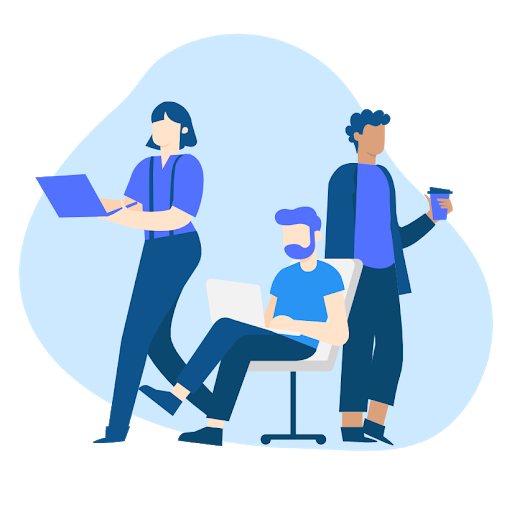
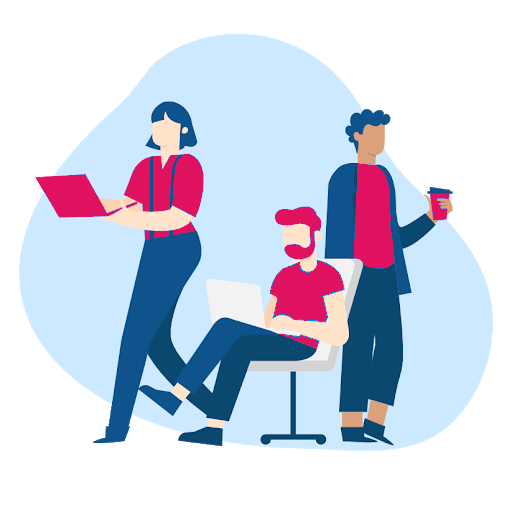
user authentication setup completed

diff --git a/components/Header.tsx b/components/Header.tsx
@@ -1,3 +1,4 @@
+'use client'
 import React from "react";
 import {
   Sheet,
@@ -11,8 +12,11 @@ import logo from "@/public/logo.png";
 import logobg from "@/public/logo-with-bg.png";
 import Link from "next/link";
 import Image from "next/image";
+import { useFetchUser } from "@/utlis/hooks/useAuth";
+import { cn } from "@/lib/utils";
 
 function Header() {
+  const { data: user, isLoading } = useFetchUser();
   return (
     <header className="py-5 sticky top-0 left-0 z-50 w-full bg-primary-color">
       <div className="container">
@@ -53,11 +57,23 @@ function Header() {
           </nav>
           <div className="call-to-action">
             <Link
-              href="/"
-              className="hidden md:block py-3 px-[40px] text-sm md:text-base xl:text-[18px] bg-slate-900 transition-all duration-300 rounded-full text-white"
+              href="/login"
+              className={cn("hidden md:block py-3 px-[40px] text-sm md:text-base xl:text-[18px] bg-slate-900 transition-all duration-300 rounded-full text-white",
+              user && "md:hidden")}
             >
               Login
             </Link>
+            <div
+              className={cn(
+                "flex justify-between p-4 bg-gray-100",
+                !user && "hidden"
+              )}
+            >
+              <h1 className="text-xl font-bold">
+                Welcome, {user?.name || "Guest"}!
+              </h1>
+              <button className="btn">Logout</button>
+            </div>
             {/* menu bar */}
             <div className="block md:hidden">
               <Sheet>
@@ -82,7 +98,13 @@ function Header() {
                     <SheetTitle>
                       <div className="bg-primary-color w-full mt-4">
                         <Link href={"/"}>
-                          <Image src={logobg} alt="logo" width={150} height={80}  className="mx-auto"/>
+                          <Image
+                            src={logobg}
+                            alt="logo"
+                            width={150}
+                            height={80}
+                            className="mx-auto"
+                          />
                         </Link>
                       </div>
                     </SheetTitle>
@@ -113,12 +135,28 @@ function Header() {
                         Contact
                       </a>
                     </li>
-                    <Link
-                      href="/"
-                      className="py-3 text-center px-[40px] text-sm md:text-base xl:text-[18px] bg-slate-900 transition-all duration-300 rounded-full text-white"
-                    >
-                      Login
-                    </Link>
+                    <div>
+                      <Link
+                        href="/login"
+                        className={cn(
+                          "py-3 text-center px-[40px] text-sm md:text-base xl:text-[18px] bg-slate-900 transition-all duration-300 rounded-full text-white",
+                          user && "hidden"
+                        )}
+                      >
+                        Login
+                      </Link>
+                      <div
+                        className={cn(
+                          "flex justify-between p-4 bg-gray-100",
+                          !user && "hidden"
+                        )}
+                      >
+                        <h1 className="text-xl font-bold">
+                          Welcome, {user?.name || "Guest"}!
+                        </h1>
+                        <button className="btn">Logout</button>
+                      </div>
+                    </div>
                   </ul>
                 </SheetContent>
               </Sheet>

diff --git a/components/LoginForm.tsx b/components/LoginForm.tsx
@@ -1,0 +1,52 @@
+'use client'
+import { useLogin } from "@/utlis/hooks/useAuth";
+import { useForm } from "react-hook-form";
+import { useRouter } from "next/navigation";
+
+interface LoginFormValues {
+  email: string;
+  password: string;
+}
+
+const LoginForm = () => {
+  const router = useRouter();
+  const { register, handleSubmit } = useForm<LoginFormValues>();
+  const { mutate, status, error } = useLogin();
+
+  const onSubmit = (data: LoginFormValues) => {
+    mutate(data, {
+      onSuccess: () => {
+        router.push("/"); // Redirect to the home page on success
+      },
+    });
+  };
+
+  return (
+    <form onSubmit={handleSubmit(onSubmit)} className="space-y-4">
+      <div>
+        <label htmlFor="email">Email</label>
+        <input
+          type="email"
+          id="email"
+          {...register("email", { required: true })}
+          className="input"
+        />
+      </div>
+      <div>
+        <label htmlFor="password">Password</label>
+        <input
+          type="password"
+          id="password"
+          {...register("password", { required: true })}
+          className="input"
+        />
+      </div>
+      <button type="submit" disabled={status === 'pending'} className="btn">
+        {status === 'pending' ? "Loading..." : "Login"}
+      </button>
+      {error && <p className="text-red-500">{(error as any).response.data.message}</p>}
+    </form>
+  );
+};
+
+export default LoginForm;

diff --git a/app/(website)/layout.tsx b/app/(website)/layout.tsx
@@ -1,13 +1,22 @@
-import Footer from '@/components/Footer'
-import Header from '@/components/Header'
-import React from 'react'
+"use client";
+import Footer from "@/components/Footer";
+import Header from "@/components/Header";
+import queryClient from "@/utlis/queryClient";
+import { QueryClientProvider, QueryClient } from "@tanstack/react-query";
+import { ReactQueryDevtools } from "@tanstack/react-query-devtools";
+import React from "react";
 
-export default function layout({children}: {children: React.ReactNode}) {
+export default function layout({ children }: { children: React.ReactNode }) {
   return (
     <>
-    <Header/>
-    {children}
-    <Footer/>
+      <QueryClientProvider client={queryClient}>
+        <Header />
+        {children}
+        <Footer />
+
+        {/* React Query Devtools for debugging */}
+        <ReactQueryDevtools initialIsOpen={false} />
+      </QueryClientProvider>
     </>
-  )
+  );
 }

diff --git a/app/middleware.ts b/app/middleware.ts
@@ -1,0 +1,21 @@
+import { NextResponse } from "next/server";
+import type { NextRequest } from "next/server";
+
+export function middleware(req: NextRequest) {
+  const token = req.cookies.get("token");
+
+  if (!token && req.nextUrl.pathname !== "/login") {
+    return NextResponse.redirect(new URL("/login", req.url));
+  }
+
+  return NextResponse.next();
+}
+// Define the routes where middleware should be applied
+export const config = {
+  matcher: [
+    // Skip Next.js internals and static files
+    "/((?!_next|[^?]*\\.(?:html?|css|js(?!on)|jpe?g|webp|png|gif|svg|ttf|woff2?|ico|csv|docx?|xlsx?|zip|webmanifest)).*)",
+    // Always run for API routes
+    "/(api|trpc)(.*)",
+  ], // Apply middleware to specific routes
+};

diff --git a/utlis/hooks/useAuth.ts b/utlis/hooks/useAuth.ts
@@ -1,0 +1,25 @@
+import { useMutation, useQuery } from "@tanstack/react-query";
+import api from "../api";
+
+// Login mutation
+export const useLogin = () => {
+  return useMutation<
+    { email: string; password: string },
+    Error,
+    { email: string; password: string }
+  >({
+    mutationFn: (data: { email: string; password: string }) =>
+      api.post("/login", data),
+  });
+};
+
+// Fetch logged-in user
+export const useFetchUser = () => {
+  return useQuery({
+    queryKey: ["user"],
+    queryFn: async () => {
+      const { data } = await api.get("/user-info");
+      return data;
+    },
+  });
+};

diff --git a/utlis/queryClient.ts b/utlis/queryClient.ts
@@ -1,0 +1,18 @@
+// utils/queryClient.ts
+import { QueryClient } from "@tanstack/react-query";
+
+const queryClient = new QueryClient({
+  defaultOptions: {
+    queries: {
+      retry: 1, // Retry failed requests once
+      refetchOnWindowFocus: false, // Disable automatic refetch on window focus
+    },
+    mutations: {
+      retry: 1, // Retry mutations once on failure
+    },
+  },
+});
+
+
+
+export default queryClient;

diff --git a/app/(website)/(pages)/login/page.tsx b/app/(website)/(pages)/login/page.tsx
@@ -1,0 +1,12 @@
+import LoginForm from "@/components/LoginForm";
+
+const LoginPage = () => {
+  return (
+    <div className="container py-10">
+      <h1 className="text-2xl font-bold mb-6">Login</h1>
+      <LoginForm />
+    </div>
+  );
+};
+
+export default LoginPage;

diff --git a/utlis/api.ts b/utlis/api.ts
@@ -2,6 +2,7 @@ import axios from 'axios';
 
 const api = axios.create({
   baseURL: process.env.NEXT_PUBLIC_API_URL, // Laravel backend URL
+  withCredentials: true,
   headers: {
     'Content-Type': 'application/json',
   },
